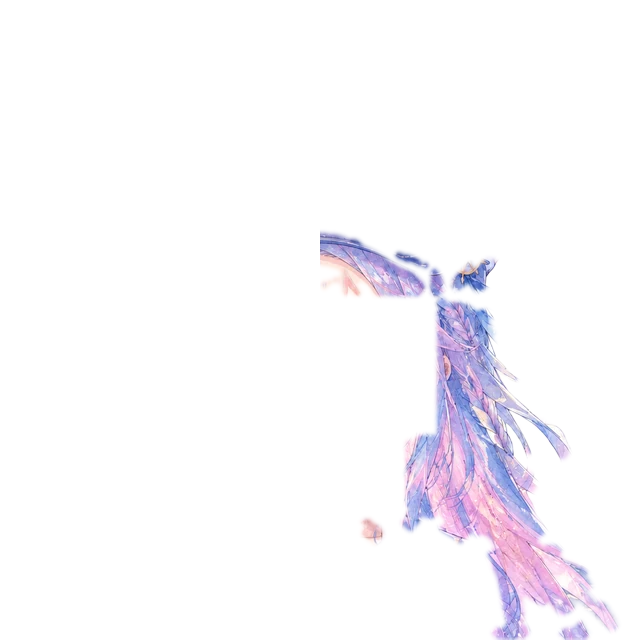
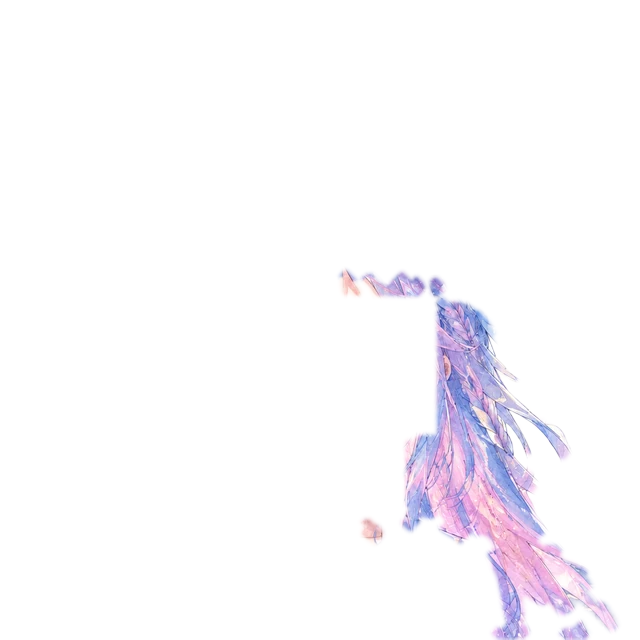
ayn-rig: 帽子を髪から分離

Changed region(s): [[0.5, 0.3438, 0.7812, 0.5]]

diff --git a/public/ayn-rig/rig.json.js b/public/ayn-rig/rig.json.js
@@ -1,1 +1,1 @@
-window.AYN_RIG = {"version": 1, "size": 640, "source": "AYN watercolor bust-up (mks ayn_s2) + custom GPT diff variants", "face": {"cx": 320, "eyes": [220, 325, 421, 380], "mouth": [304, 413, 347, 426], "neck_y": 502}, "layers": [{"name": "body", "file": "body.webp", "z": 0, "group": "body"}, {"name": "head", "file": "head.webp", "z": 1, "group": "head"}, {"name": "hair_L", "file": "hair_L.webp", "z": 2, "group": "head", "pivot": [191, 200], "bbox": [57, 193, 319, 635], "physics": {"type": "pendulum", "stiffness": 9, "damping": 1.3, "max_deg": 14, "wind": 3.8, "phase": 0.0, "bend": true, "tip_lag": 0.4, "tip_over": 1.5}}, {"name": "hair_R", "file": "hair_R.webp", "z": 3, "group": "head", "pivot": [467, 236], "bbox": [320, 229, 622, 639], "physics": {"type": "pendulum", "stiffness": 9, "damping": 1.3, "max_deg": 14, "wind": 3.8, "phase": 1.7, "bend": true, "tip_lag": 0.4, "tip_over": 1.5}}, {"name": "eyes_closed", "file": "eyes_closed.webp", "z": 4, "group": "head", "switch": "blink"}, {"name": "mouth_open", "file": "mouth_open.webp", "z": 5, "group": "head", "switch": "mouth"}, {"name": "eyes_happy", "file": "eyes_happy.webp", "z": 6, "group": "head", "switch": "expr"}, {"name": "eyes_wink", "file": "eyes_wink.webp", "z": 7, "group": "head", "switch": "expr"}, {"name": "eyes_up", "file": "eyes_up.webp", "z": 8, "group": "head", "switch": "expr"}, {"name": "face_sad", "file": "face_sad.webp", "z": 9, "group": "head", "switch": "expr"}, {"name": "face_surprise", "file": "face_surprise.webp", "z": 10, "group": "head", "switch": "expr"}, {"name": "face_shy", "file": "face_shy.webp", "z": 11, "group": "head", "switch": "expr"}, {"name": "face_angry", "file": "face_angry.webp", "z": 12, "group": "head", "switch": "expr"}, {"name": "face_sleepy", "file": "face_sleepy.webp", "z": 13, "group": "head", "switch": "expr"}, {"name": "glasses", "file": "glasses.webp", "z": 30, "group": "head"}, {"name": "hair_front", "file": "hair_front.webp", "z": 20, "group": "head", "pivot": [320, 249], "bbox": [233, 237, 425, 350], "physics": {"type": "pendulum", "stiffness": 12, "damping": 1.8, "max_deg": 4, "wind": 5.0, "wind_freq": 0.55, "phase": 0.9, "expr_bias": 1.0, "gust": 1.0, "bend": true, "tip_lag": 0.5, "tip_over": 1.8}}, {"name": "temple_L", "file": "temple_L.webp", "z": 18, "group": "head", "pivot": [197, 239], "bbox": [147, 239, 247, 444], "physics": {"type": "pendulum", "stiffness": 8, "damping": 1.4, "max_deg": 9, "wind": 9.0, "wind_freq": 0.6, "phase": 0.4, "expr_bias": 0.6, "gust": 1.3, "bend": true, "tip_lag": 0.4, "tip_over": 1.6}}, {"name": "temple_R", "file": "temple_R.webp", "z": 19, "group": "head", "pivot": [394, 244], "bbox": [357, 239, 432, 336], "physics": {"type": "pendulum", "stiffness": 8, "damping": 1.4, "max_deg": 9, "wind": 9.0, "wind_freq": 0.6, "phase": 2.1, "expr_bias": 0.6, "gust": 1.3, "bend": true, "tip_lag": 0.4, "tip_over": 1.6}}], "expressions": {"neutral": {}, "happy": {"layers": ["eyes_happy"], "bangs": 5}, "wink": {"layers": ["eyes_wink"], "bangs": 7}, "think": {"layers": ["eyes_up"], "tilt": -6, "bangs": -6}, "sad": {"layers": ["face_sad"], "tilt": 4, "bangs": 4}, "surprise": {"layers": ["face_surprise"], "bangs": 0}, "kubikashige": {"layers": ["eyes_happy"], "tilt": 10, "bangs": 8}, "shy": {"layers": ["face_shy"], "tilt": 3, "bangs": 5}, "angry": {"layers": ["face_angry"], "bangs": -4}, "sleepy": {"layers": ["face_sleepy"], "tilt": -5, "bangs": -5}}, "groups": {"head": {"pivot": [320, 502], "tilt_deg": 4.0, "breathe_px": 6}, "body": {"pivot": [320, 640], "breathe_px": 3}}};
+window.AYN_RIG = {"version": 1, "size": 640, "source": "AYN watercolor bust-up (mks ayn_s2) + custom GPT diff variants", "face": {"cx": 320, "eyes": [220, 325, 421, 380], "mouth": [304, 413, 347, 426], "neck_y": 502}, "layers": [{"name": "body", "file": "body.webp", "z": 0, "group": "body"}, {"name": "head", "file": "head.webp", "z": 1, "group": "head"}, {"name": "hair_L", "file": "hair_L.webp", "z": 2, "group": "head", "pivot": [147, 317], "bbox": [57, 310, 237, 635], "physics": {"type": "pendulum", "stiffness": 9, "damping": 1.3, "max_deg": 14, "wind": 3.8, "phase": 0.0, "bend": true, "tip_lag": 0.4, "tip_over": 1.5}}, {"name": "hair_R", "file": "hair_R.webp", "z": 3, "group": "head", "pivot": [478, 273], "bbox": [336, 267, 622, 639], "physics": {"type": "pendulum", "stiffness": 9, "damping": 1.3, "max_deg": 14, "wind": 3.8, "phase": 1.7, "bend": true, "tip_lag": 0.4, "tip_over": 1.5}}, {"name": "eyes_closed", "file": "eyes_closed.webp", "z": 4, "group": "head", "switch": "blink"}, {"name": "mouth_open", "file": "mouth_open.webp", "z": 5, "group": "head", "switch": "mouth"}, {"name": "eyes_happy", "file": "eyes_happy.webp", "z": 6, "group": "head", "switch": "expr"}, {"name": "eyes_wink", "file": "eyes_wink.webp", "z": 7, "group": "head", "switch": "expr"}, {"name": "eyes_up", "file": "eyes_up.webp", "z": 8, "group": "head", "switch": "expr"}, {"name": "face_sad", "file": "face_sad.webp", "z": 9, "group": "head", "switch": "expr"}, {"name": "face_surprise", "file": "face_surprise.webp", "z": 10, "group": "head", "switch": "expr"}, {"name": "face_shy", "file": "face_shy.webp", "z": 11, "group": "head", "switch": "expr"}, {"name": "face_angry", "file": "face_angry.webp", "z": 12, "group": "head", "switch": "expr"}, {"name": "face_sleepy", "file": "face_sleepy.webp", "z": 13, "group": "head", "switch": "expr"}, {"name": "glasses", "file": "glasses.webp", "z": 30, "group": "head"}, {"name": "hair_front", "file": "hair_front.webp", "z": 20, "group": "head", "pivot": [320, 249], "bbox": [305, 270, 425, 350], "physics": {"type": "pendulum", "stiffness": 12, "damping": 1.8, "max_deg": 4, "wind": 5.0, "wind_freq": 0.55, "phase": 0.9, "expr_bias": 1.0, "gust": 1.0, "bend": true, "tip_lag": 0.5, "tip_over": 1.8}}, {"name": "temple_L", "file": "temple_L.webp", "z": 18, "group": "head", "pivot": [194, 314], "bbox": [147, 309, 245, 444], "physics": {"type": "pendulum", "stiffness": 8, "damping": 1.4, "max_deg": 9, "wind": 9.0, "wind_freq": 0.6, "phase": 0.4, "expr_bias": 0.6, "gust": 1.3, "bend": true, "tip_lag": 0.4, "tip_over": 1.6}}, {"name": "temple_R", "file": "temple_R.webp", "z": 19, "group": "head", "pivot": [394, 275], "bbox": [357, 269, 432, 336], "physics": {"type": "pendulum", "stiffness": 8, "damping": 1.4, "max_deg": 9, "wind": 9.0, "wind_freq": 0.6, "phase": 2.1, "expr_bias": 0.6, "gust": 1.3, "bend": true, "tip_lag": 0.4, "tip_over": 1.6}}], "expressions": {"neutral": {}, "happy": {"layers": ["eyes_happy"], "bangs": 5}, "wink": {"layers": ["eyes_wink"], "bangs": 7}, "think": {"layers": ["eyes_up"], "tilt": -6, "bangs": -6}, "sad": {"layers": ["face_sad"], "tilt": 4, "bangs": 4}, "surprise": {"layers": ["face_surprise"], "bangs": 0}, "kubikashige": {"layers": ["eyes_happy"], "tilt": 10, "bangs": 8}, "shy": {"layers": ["face_shy"], "tilt": 3, "bangs": 5}, "angry": {"layers": ["face_angry"], "bangs": -4}, "sleepy": {"layers": ["face_sleepy"], "tilt": -5, "bangs": -5}}, "groups": {"head": {"pivot": [320, 502], "tilt_deg": 4.0, "breathe_px": 6}, "body": {"pivot": [320, 640], "breathe_px": 3}}};
